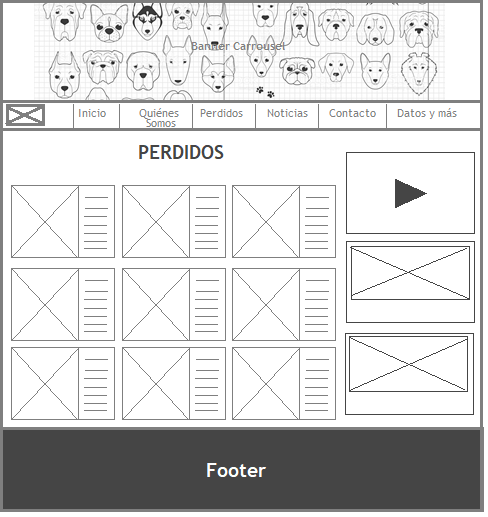
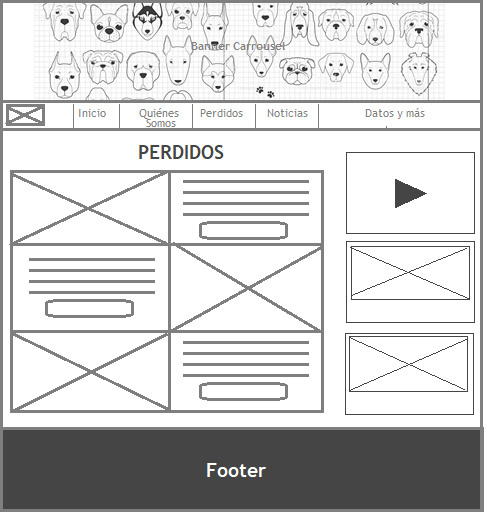
correcciones readme

Changed region(s): [[0.0, 0.3095, 0.6762, 0.8046], [0.6762, 0.2166, 0.9221, 0.2476]]

diff --git a/Readme.md b/Readme.md
@@ -4,23 +4,33 @@ El tema seleccionado es mascotas perdidas en la comuna de Quilicura, como así t
 ## Objetivos
 ### UI
 La página será responsiva.
+
 Al visualizarla en dispositivos móviles, se podrá apreciar inmediatamente la información relevante a mascotas perdidas.
-El sitio será de tonalidades azules-celestes-verdes.
+
+El sitio utilizará los siguientes colores:
+
+![Paleta](assets/img/paleta.png)
+
 Las tipografías utilizadas serán Raleway para el texto y Ubuntu para los títulos.
+
 El tamaño de la fuente será 12.
+
 El usuario a través del navbar podrá acceder a las distintas páginas, en las cuales se podrá visualizar esta barra de navegación fija.
+
 En todas las páginas el usuario podrá acceder a la información de las redes sociales, lo cual estará posicionado bajo criterios de accesibilidad.
+
 En todas las páginas el usuario podrá visualizar los datos de contacto con la unidad de salud municipal.
 
 ### UX
 Con la finalidad de que el sitio se convierta en una herramienta real para la centralización de información de mascotas perdidas, la experiencia del usuario debe ser lo más práctica, fácil y cómoda posible, es decir, que el registrar la perdida de una mascota, como a su vez, aportar en la búsqueda de éstas, no requiera de pasos innecesarios y excesivos. Además, que ésta página se pueda asociar con las redes sociales, que permitan publicar la información de forma simple y rápida.
+
 A través de este sitio, se espera que las personas sientan que es una página fácil y práctica de usar, que sea bonita y atractiva para que el usuario precise ingresar nuevamente.
 
 ## Requerimientos del sitio 
-El usuario a través del navbar responsivo podrá acceder a las páginas de Inicio, Quiénes Somos, Perdidos, Noticias y Contacto, además de un Dropdown con Ayuda Animal, Datos y Tips. En todas las páginas se podrá visualizar esta barra de navegación fija.
+El usuario a través del navbar responsivo podrá acceder a las páginas de Inicio, Quiénes Somos, Perdidos, Noticias y Datos y Tips. En todas las páginas se podrá visualizar esta barra de navegación fija.
 
 #### En la página inicio:
-•    El inicio dispondrá de un banner carrousel de noticias destacadas y propaganda (esterilización, apoyo a la adopción animal, etc.), las cuales se podrán visualizar de forma independiente en otras páginas o anclas dependiendo del caso.
+•    El inicio dispondrá de un banner carrousel de noticias destacadas y propaganda (esterilización, apoyo a la adopción animal, etc.), las cuales se podrán visualizar de forma independiente en otras páginas correspondientes.
 
 •    Se visualizarán las últimas publicaciones de mascotas perdidas ingresadas en formato blog.
 
@@ -36,14 +46,12 @@ El usuario a través del navbar responsivo podrá acceder a las páginas de Inic
 #### En Noticias
 • Se publicarán noticias de distinta índole relativas a mascotas.
 en Línea debe contener un botón con acceso a los resultados de exámenes de laboratorio en línea.
-#### En Ayuda Animal
-• Se publicará información relativa a organizaciones, propuestas e iniciativa de ayuda animal.
-#### En Datos
+
+#### En Datos y más
 •  Se publicará información de negocios logales relativos a las mascotas (tiendas, veterinarias), de las cuales podamos obtener recomendaciones y valoraciones.
 
-#### En contáctenos 
-• Se dispondrá un formulario de contacto.
-#### En tips 
+• Se publicará información relativa a organizaciones, propuestas e iniciativa de ayuda animal.
+
 • Se publicará información relativa al ocio doméstico para las mascotas (alimentación, juguetes, actividades).
 
 
@@ -53,4 +61,32 @@ Para dispositivos móviles, se dispondrá de sólo una columna.
 
 ## Boceto 
 
-![Sketch](assets/img/boceto.png)
+### Index
+![Boceto Index](assets/img/boceto.png)
+##### Index Responsivo
+![Boceto Index Responsivo](assets/img/boceto-responsivo.png)
+
+### Quiés Somos
+![Boceto Index](assets/img/quienes-somos.png)
+
+##### Quiénes Somos Responsivo
+![Boceto Index Responsivo](assets/img/quienes-somos-responsivo.png)
+
+### Perdidos
+![Boceto Index](assets/img/perdidos.png)
+
+##### Perdidos Responsivo
+![Boceto Index Responsivo](assets/img/perdidos-responsivo.png)
+
+### Noticias
+![Boceto Index Responsivo](assets/img/noticias.png)
+
+##### Noticias Responsivo
+![Boceto Index Responsivo](assets/img/noticias-responsivo.png)
+
+### Datos y más
+![Boceto Index Responsivo](assets/img/datos.png)
+
+##### Datos y más Responsivo
+![Boceto Index Responsivo](assets/img/datos-responsivo.png)
+
